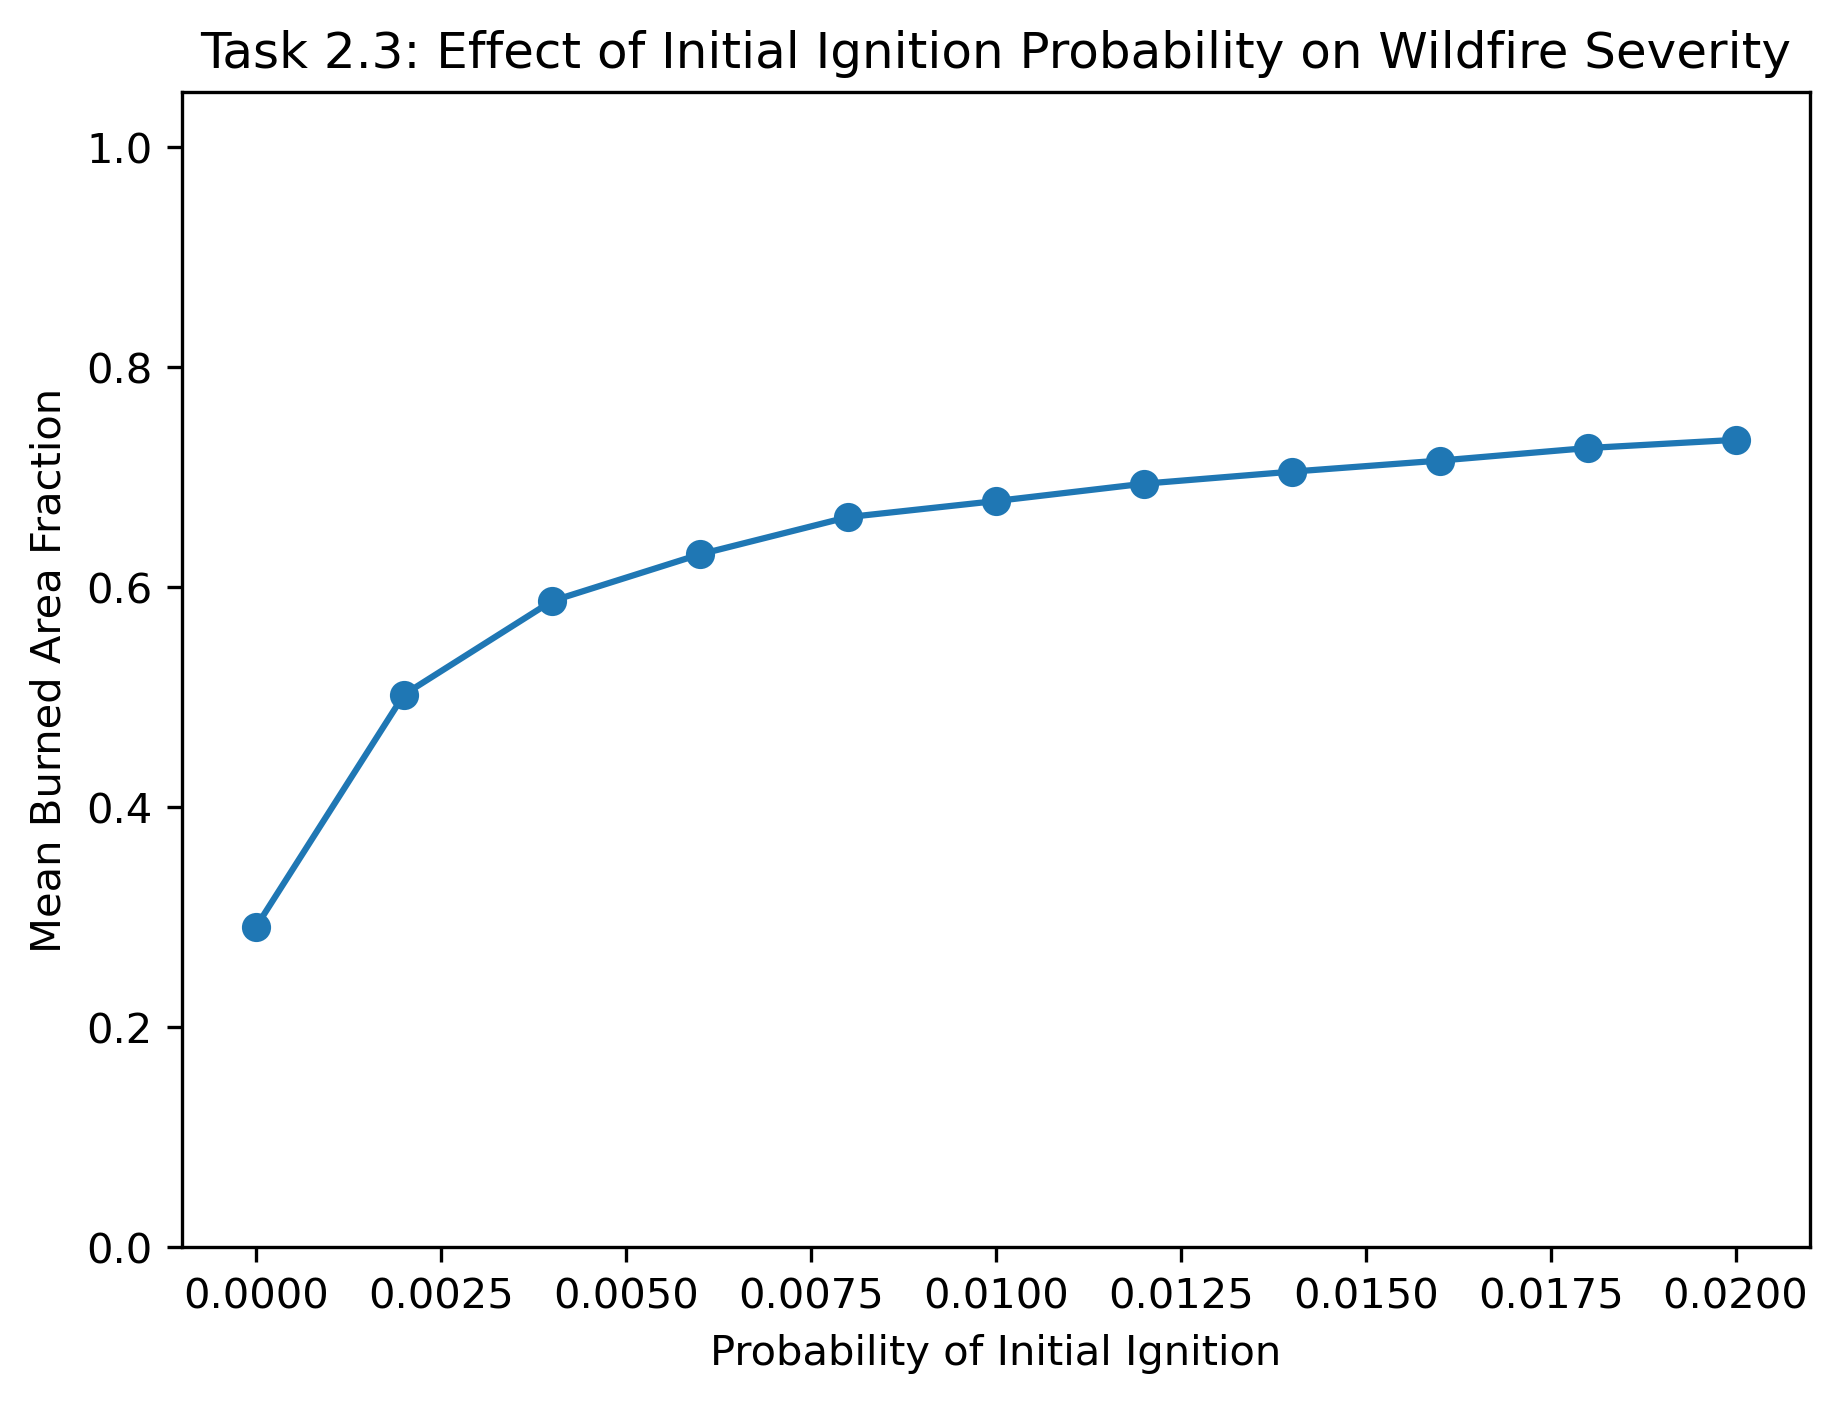
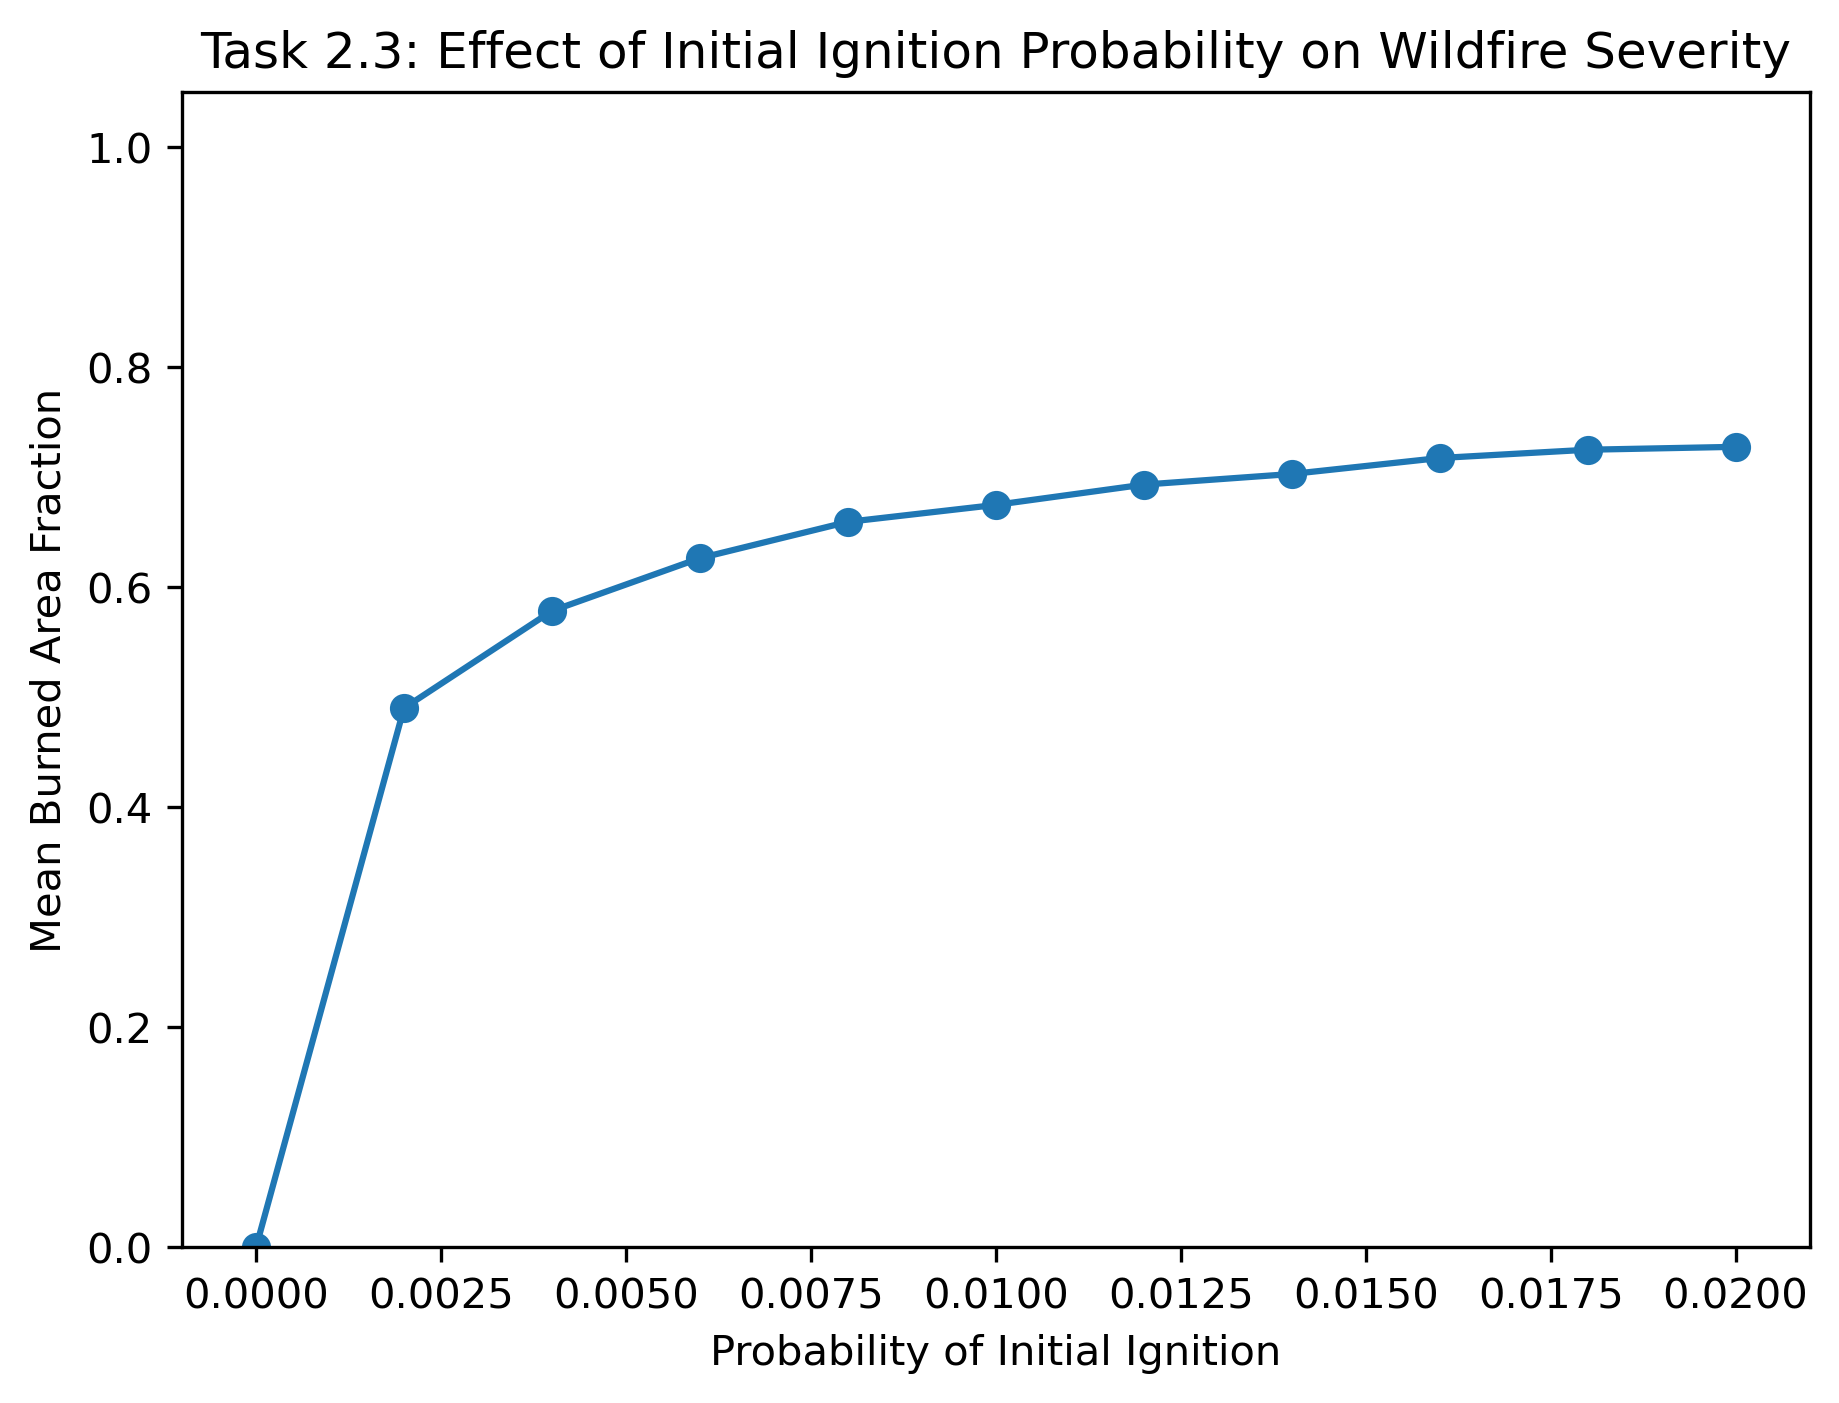
Complete Lab 01 wildfire and disease models

diff --git a/lab01/Lab 01_yinjiao.py b/lab01/Lab 01_yinjiao.py
@@ -10,7 +10,86 @@ np.random.seed(42)
 figure_dir = "figures"
 os.makedirs(figure_dir, exist_ok=True)
 # forest = 2, bare = 1, burning = 3
-# Task 1
+
+# Task 1.1: 3 × 3 validation
+nx, ny=3, 3
+prob_spread=1.0
+prob_bare=0.0
+prob_start=0.0
+forest_history = []
+
+forest = np.zeros([ny, nx]) +2
+forest[ny//2, nx//2] = 3
+#saved into the forest history
+forest_history.append(forest.copy())
+print("Task 1.1: Iteration 0")
+print(forest)
+
+for iteration in range(2):
+    # new loop for new case
+    new_forest = forest.copy()
+    for i in range(nx):
+        for j in range(ny):
+            # is current cell burning or not?
+            if forest[j, i] == 3:
+                # old burning cell becomes burnt
+                new_forest[j, i] = 1
+                # does a right neighbor exist?
+                if i+1 < nx:
+                    # is the right neighbor forested?
+                    if forest[j, i+1] == 2:
+                        #does fire spread?
+                        if np.random.rand() < prob_spread:
+                            # new cell burning
+                            new_forest[j, i+1] = 3
+                # does a left neighbor exist?
+                if i-1 >= 0:
+                    # is the left neighbor forested?
+                    if forest[j, i-1] == 2:
+                        #does fire spread?
+                        if np.random.rand() < prob_spread:
+                            # new cell burning
+                            new_forest[j, i-1] = 3
+                # does a down neighbor exist?
+                if j+1 < ny:
+                    # is the down neighbor forested?
+                    if forest[j+1, i] == 2:
+                        #does fire spread?
+                        if np.random.rand() < prob_spread:
+                            # new cell burning
+                            new_forest[j+1, i] = 3
+                # does a up neighbor exist?
+                if j-1 >= 0:
+                    # is the up neighbor forested?
+                    if forest[j-1, i] == 2:
+                        #does fire spread?
+                        if np.random.rand() < prob_spread:
+                            # new cell burning
+                            new_forest[j-1, i] = 3
+    forest = new_forest
+    forest_history.append(forest.copy())
+    print(f"Task 1.1: Iteration {iteration +1}")
+    print(forest)
+
+# plotting
+colors = ["grey", "green", "red"]
+forest_cmap = ListedColormap(colors)
+fig, axes=plt.subplots(1, 3, figsize=(13, 5))
+fig.suptitle("Task 1.1: Forest Fire Spread Validation (3 × 3 Grid)")
+for k in range(len(forest_history)):
+    axes[k].pcolor(forest_history[k], cmap=forest_cmap, vmin=1, vmax=3)
+    axes[k].set_title(f"Iteration {k}")
+    axes[k].set_xlabel("Column")
+    axes[k].set_ylabel("Row")
+    axes[k].invert_yaxis()
+legend_set = [Patch(facecolor="grey", label="Bare/Burnt"), Patch(facecolor="green", label="Forest"), Patch(facecolor="red", label="Burning")]
+fig.legend(handles=legend_set, loc="lower center", ncol=3)
+plt.tight_layout(rect=[0, 0.1, 1, 0.95])
+plt.savefig(os.path.join(figure_dir, "task1_1_validation_3x3.png"),dpi=300,bbox_inches="tight")
+plt.show()
+
+
+# Task 1.2 (3*5)
 nx, ny=5, 3
 prob_spread=1.0
 prob_bare=0.0
@@ -84,7 +163,7 @@ forest_cmap = ListedColormap(colors)
 
 # create figsize and title
 fig, axes=plt.subplots(1, 3, figsize=(13, 5))
-fig.suptitle("Task1: Forest Fire Spread Validation (3 × 5 Grid)")
+fig.suptitle("Task 1.2: Forest Fire Spread Validation (3 × 5 Grid)")
 #create the loopy for plotting
 for k in range(len(forest_history)):
     # plot matrix
@@ -101,7 +180,7 @@ legend_set = [Patch(facecolor="grey", label="Bare/Burnt"),
 fig.legend(handles=legend_set, loc="lower center", ncol=3) 
 # adjust the legend location 
 plt.tight_layout(rect=[0, 0.1, 1, 0.95])
-plt.savefig(os.path.join(figure_dir, "task1_forest_fire_validation.png"),dpi=300,bbox_inches="tight")
+plt.savefig(os.path.join(figure_dir, "task1_2_validation_3x5.png"),dpi=300,bbox_inches="tight")
 plt.show()
 
 # Task 2
@@ -119,7 +198,7 @@ def fire(nx, ny, prob_spread, prob_bare, prob_start):
             if np.random.rand() < prob_bare:
                 forest[j, i] = 1
 
-    forest[ny//2, nx//2] = 3
+    #forest[ny//2, nx//2] = 3
 
     # randomly create additional initial burning cells
     for i in range(nx):
@@ -131,7 +210,7 @@ def fire(nx, ny, prob_spread, prob_bare, prob_start):
     initial_tree_cells = np.sum((forest == 2) | (forest == 3))
 
     #save initial state
-    #forest_history.append(forest.copy())
+    forest_history.append(forest.copy())
 
     #set the inital value
     iteration = 0
@@ -182,18 +261,75 @@ def fire(nx, ny, prob_spread, prob_bare, prob_start):
 
         forest = new_forest
         iteration += 1
-        #forest_history.append(forest.copy())
+        forest_history.append(forest.copy())
 
     remaining_tree_cells = np.sum(forest == 2)
     burned_cells = initial_tree_cells - remaining_tree_cells
     burned_fraction = burned_cells/initial_tree_cells
     burned_area_fraction = burned_cells / (nx * ny)
 
-    return burned_fraction, burned_area_fraction
+    return burned_fraction, burned_area_fraction, forest_history
+
+# Task 2 visualization
+prob_spread = 0.5
+prob_bare = 0.1
+prob_start = 0.002
+
+burned_fraction, burned_area_fraction, forest_history = fire(nx,ny,prob_spread,prob_bare,prob_start)
+
+# choose initial, middle, and final forest
+initial_forest = forest_history[0]
+middle_forest = forest_history[len(forest_history)//2]
+final_forest = forest_history[-1]
+
+colors = ["grey", "green", "red"]
+forest_cmap = ListedColormap(colors)
+
+fig, axes=plt.subplots(1,3,figsize=(13,5))
+axes[0].pcolor(initial_forest,cmap=forest_cmap,vmin=1,vmax=3)
+axes[0].set_title("Initial Forest")
+axes[1].pcolor(middle_forest,cmap=forest_cmap,vmin=1,vmax=3)
+axes[1].set_title("During Fire")
+axes[2].pcolor(final_forest,cmap=forest_cmap,vmin=1,vmax=3)
+axes[2].set_title("Final Forest")
+
+for ax in axes:
+    ax.invert_yaxis()
+    ax.set_xlabel("Column")
+    ax.set_ylabel("Row")
+
+legend_set = [Patch(facecolor="grey",label="Bare/Burnt"),Patch(facecolor="green",label="Forest"),Patch(facecolor="red",label="Burning")]
+fig.legend(handles=legend_set,loc="lower center",ncol=3)
+plt.tight_layout(rect=[0,0.1,1,0.95])
+plt.savefig(os.path.join(figure_dir,"task2_fire_visualization.png"),dpi=300,bbox_inches="tight")
+plt.show()
+
+# count each cell type for each iteration
+forest_count = []
+burning_count = []
+burned_count = []
+
+for forest in forest_history:
+    forest_count.append(np.sum(forest == 2))
+    burning_count.append(np.sum(forest == 3))
+    burned_count.append(np.sum(forest == 1))
+
+iterations = np.arange(len(forest_history))
+
+plt.figure(figsize=(7,5))
+plt.plot(iterations,forest_count,label="Forest")
+plt.plot(iterations,burning_count,label="Burning")
+plt.plot(iterations,burned_count,label="Bare/Burnt")
+plt.xlabel("Iteration")
+plt.ylabel("Number of Cells")
+plt.title("Task 2: Forest Cell States Over Time")
+plt.legend()
+plt.savefig(os.path.join(figure_dir,"task2_forest_states_over_time.png"),dpi=300,bbox_inches="tight")
+plt.show()
 
 # Task 2.1
 prob_spread = 1.0
-prob_start = 0.0
+prob_start = 0.002
 #input the value
 bare_values = np.arange(0.0, 1.01, 0.1)
 mean_burned = []
@@ -203,7 +339,7 @@ for prob_bare in bare_values:
     results = []
     #random 100
     for run in range(100):
-        burned_fraction, burned_area_fraction = fire(nx, ny, prob_spread, prob_bare, prob_start)
+        burned_fraction, burned_area_fraction, forest_history= fire(nx, ny, prob_spread, prob_bare, prob_start)
         results.append(burned_area_fraction)
     # compute the mean fraction
     mean_fraction = np.mean(results)
@@ -223,7 +359,7 @@ plt.show()
 
 # Task 2.2
 prob_bare = 0.0
-prob_start = 0.0
+prob_start = 0.002
 spread_values = np.arange(0.0, 1.01, 0.1)
 mean_burned_spread = []
 
@@ -232,7 +368,7 @@ for prob_spread in spread_values:
     results = []
     #random 100
     for run in range(100):
-        burned_fraction, burned_area_fraction = fire(nx, ny, prob_spread, prob_bare, prob_start)
+        burned_fraction, burned_area_fraction, forest_history = fire(nx, ny, prob_spread, prob_bare, prob_start)
         results.append(burned_area_fraction)
     # compute the mean fraction
     mean_fraction = np.mean(results)
@@ -267,7 +403,7 @@ for prob_start in start_values:
     # run 500 random simulations
     for run in range(500):
 
-        burned_fraction, burned_area_fraction = fire(nx,ny,prob_spread,prob_bare,prob_start)
+        burned_fraction, burned_area_fraction, forest_history = fire(nx,ny,prob_spread,prob_bare,prob_start)
         results.append(burned_area_fraction)
     # compute mean burned area fraction
     mean_fraction = np.mean(results)
@@ -298,13 +434,7 @@ for prob_bare in control_values:
     burned_results = []
     for run in range(num_runs):
 
-        burned_fraction, burned_area_fraction = fire(
-            nx,
-            ny,
-            prob_spread,
-            prob_bare,
-            prob_start
-        )
+        burned_fraction, burned_area_fraction, forest_history = fire(nx,ny,prob_spread,prob_bare,prob_start)
 
         burned_results.append(burned_area_fraction)
 
@@ -347,6 +477,7 @@ nx = 50
 ny = 50
 
 def disease(nx, ny, prob_spread, prob_vaccinated, prob_start, prob_fatal):
+    population_history = []
     # create a new population
     population = np.zeros([ny, nx]) + 2
     # randomly create vaccinated/immune people
@@ -364,6 +495,8 @@ def disease(nx, ny, prob_spread, prob_vaccinated, prob_start, prob_fatal):
             if population[j, i] == 2:
                 if np.random.rand() < prob_start:
                     population[j, i] = 3
+
+    population_history.append(population.copy())
 
     # continue until there are no sick people
     while np.any(population == 3):
@@ -412,13 +545,74 @@ def disease(nx, ny, prob_spread, prob_vaccinated, prob_start, prob_fatal):
 
         # update the population
         population = new_population
+        population_history.append(population.copy())
     # calculate final fractions
     dead_fraction = np.sum(population == 0) / (nx * ny)
     immune_fraction = np.sum(population == 1) / (nx * ny)
     healthy_fraction = np.sum(population == 2) / (nx * ny)
 
-    return dead_fraction, immune_fraction, healthy_fraction
+    return dead_fraction, immune_fraction, healthy_fraction, population_history
 
+# Task 3 visualization
+prob_spread = 0.5
+prob_vaccinated = 0.1
+prob_start = 0.002
+prob_fatal = 0.5
+
+dead_fraction, immune_fraction, healthy_fraction, population_history = disease(nx,ny,prob_spread,prob_vaccinated,prob_start,prob_fatal)
+
+initial_population = population_history[0]
+sick_numbers = [np.sum(population == 3) for population in population_history]
+middle_population = population_history[np.argmax(sick_numbers)]
+final_population = population_history[-1]
+
+colors = ["black","blue","green","red"]
+disease_cmap = ListedColormap(colors)
+
+fig, axes=plt.subplots(1,3,figsize=(13,5))
+axes[0].pcolor(initial_population,cmap=disease_cmap,vmin=0,vmax=3)
+axes[0].set_title("Initial Population")
+axes[1].pcolor(middle_population,cmap=disease_cmap,vmin=0,vmax=3)
+axes[1].set_title("Peak Disease Spread")
+axes[2].pcolor(final_population,cmap=disease_cmap,vmin=0,vmax=3)
+axes[2].set_title("Final Population")
+
+for ax in axes:
+    ax.invert_yaxis()
+    ax.set_xlabel("Column")
+    ax.set_ylabel("Row")
+
+legend_set = [Patch(facecolor="black",label="Dead"),Patch(facecolor="blue",label="Immune"),Patch(facecolor="green",label="Healthy"),Patch(facecolor="red",label="Sick")]
+fig.legend(handles=legend_set,loc="lower center",ncol=4)
+plt.tight_layout(rect=[0,0.1,1,0.95])
+plt.savefig(os.path.join(figure_dir,"task3_disease_visualization.png"),dpi=300,bbox_inches="tight")
+plt.show()
+
+# count each population state for each iteration
+dead_count = []
+immune_count = []
+healthy_count = []
+sick_count = []
+
+for population in population_history:
+    dead_count.append(np.sum(population == 0))
+    immune_count.append(np.sum(population == 1))
+    healthy_count.append(np.sum(population == 2))
+    sick_count.append(np.sum(population == 3))
+
+iterations = np.arange(len(population_history))
+
+plt.figure(figsize=(7,5))
+plt.plot(iterations,healthy_count,label="Healthy",color="green")
+plt.plot(iterations,sick_count,label="Sick",color="red")
+plt.plot(iterations,immune_count,label="Immune",color="blue")
+plt.plot(iterations,dead_count,label="Dead",color="black")
+plt.xlabel("Iteration")
+plt.ylabel("Number of People")
+plt.title("Task 3: Population States Over Time")
+plt.legend()
+plt.savefig(os.path.join(figure_dir,"task3_population_states_over_time.png"),dpi=300,bbox_inches="tight")
+plt.show()
 
 # Task 3.1
 # Effect of fatality probability on mortality
@@ -435,7 +629,7 @@ for prob_fatal in fatal_values:
     # run 100 random simulations
     for run in range(100):
 
-        dead_fraction, immune_fraction, healthy_fraction = disease(nx,ny,prob_spread,prob_vaccinated,prob_start,prob_fatal)
+        dead_fraction, immune_fraction, healthy_fraction, population_history = disease(nx,ny,prob_spread,prob_vaccinated,prob_start,prob_fatal)
 
         results.append(dead_fraction)
 
@@ -472,7 +666,7 @@ for prob_vaccinated in vaccinated_values:
     # run 100 random simulations
     for run in range(100):
 
-        dead_fraction, immune_fraction, healthy_fraction = disease(nx,ny,prob_spread,prob_vaccinated,prob_start,prob_fatal)
+        dead_fraction, immune_fraction, healthy_fraction, population_history = disease(nx,ny,prob_spread,prob_vaccinated,prob_start,prob_fatal)
 
         results.append(dead_fraction)
 
